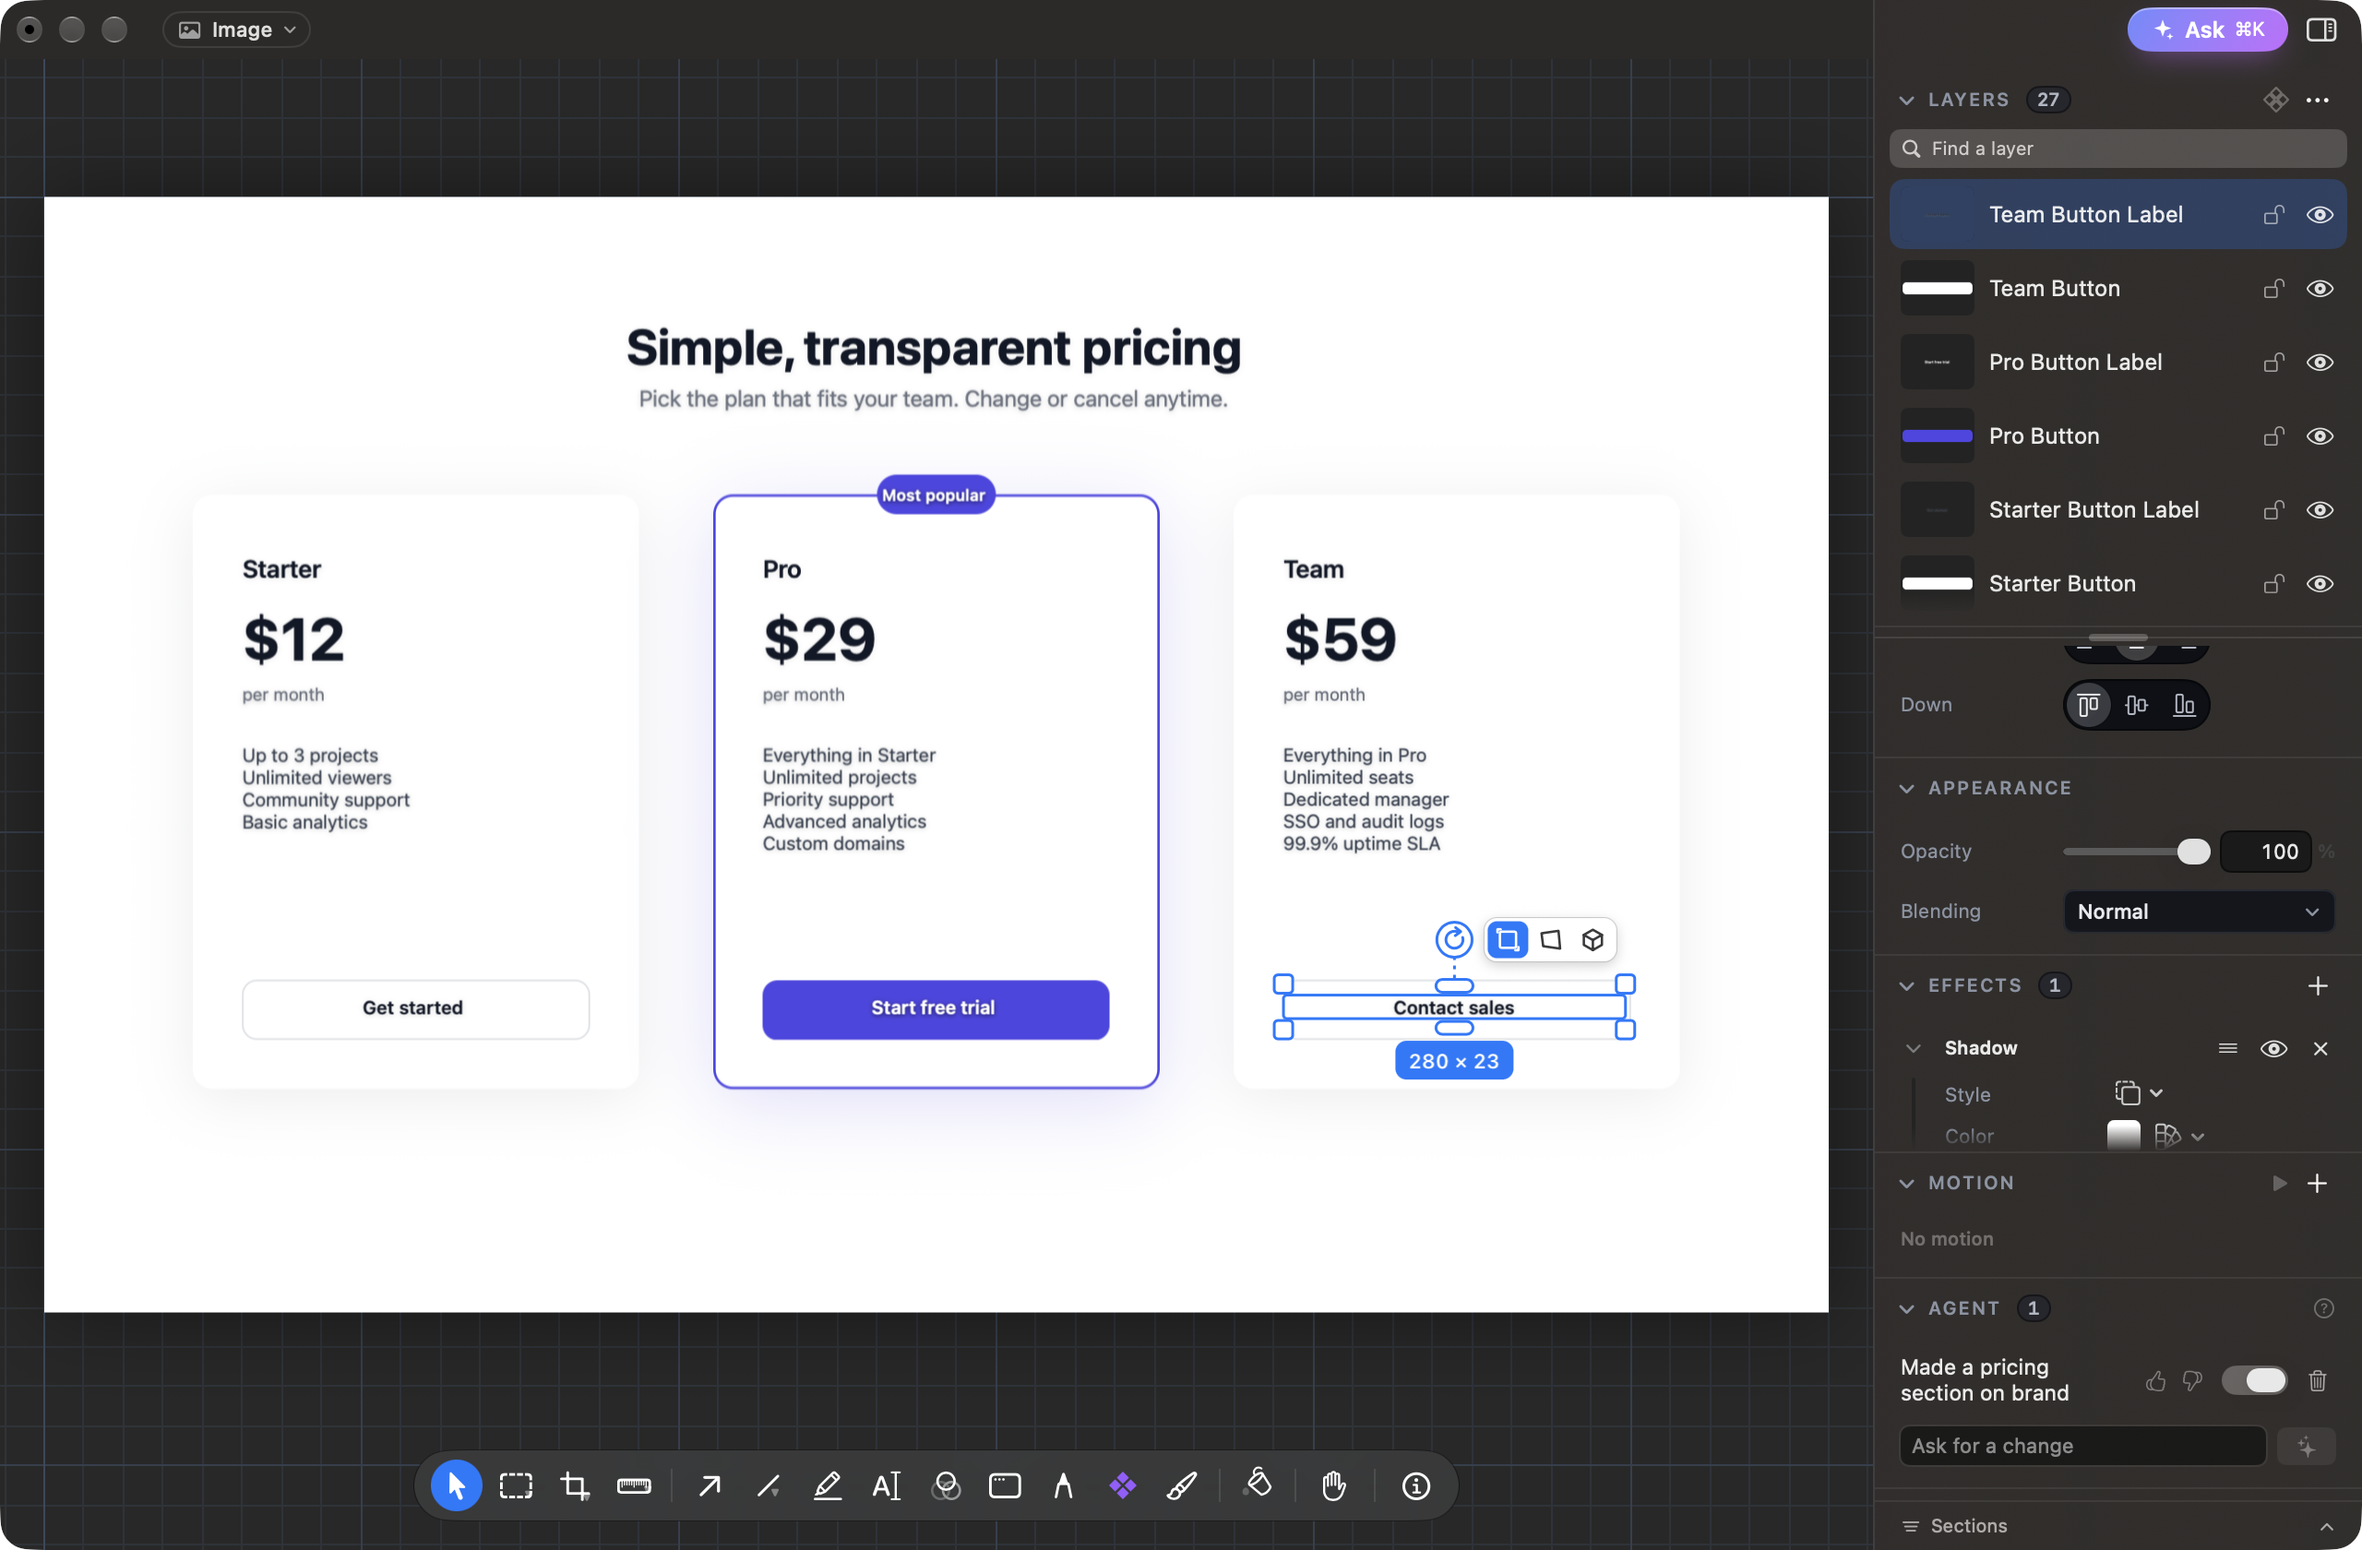
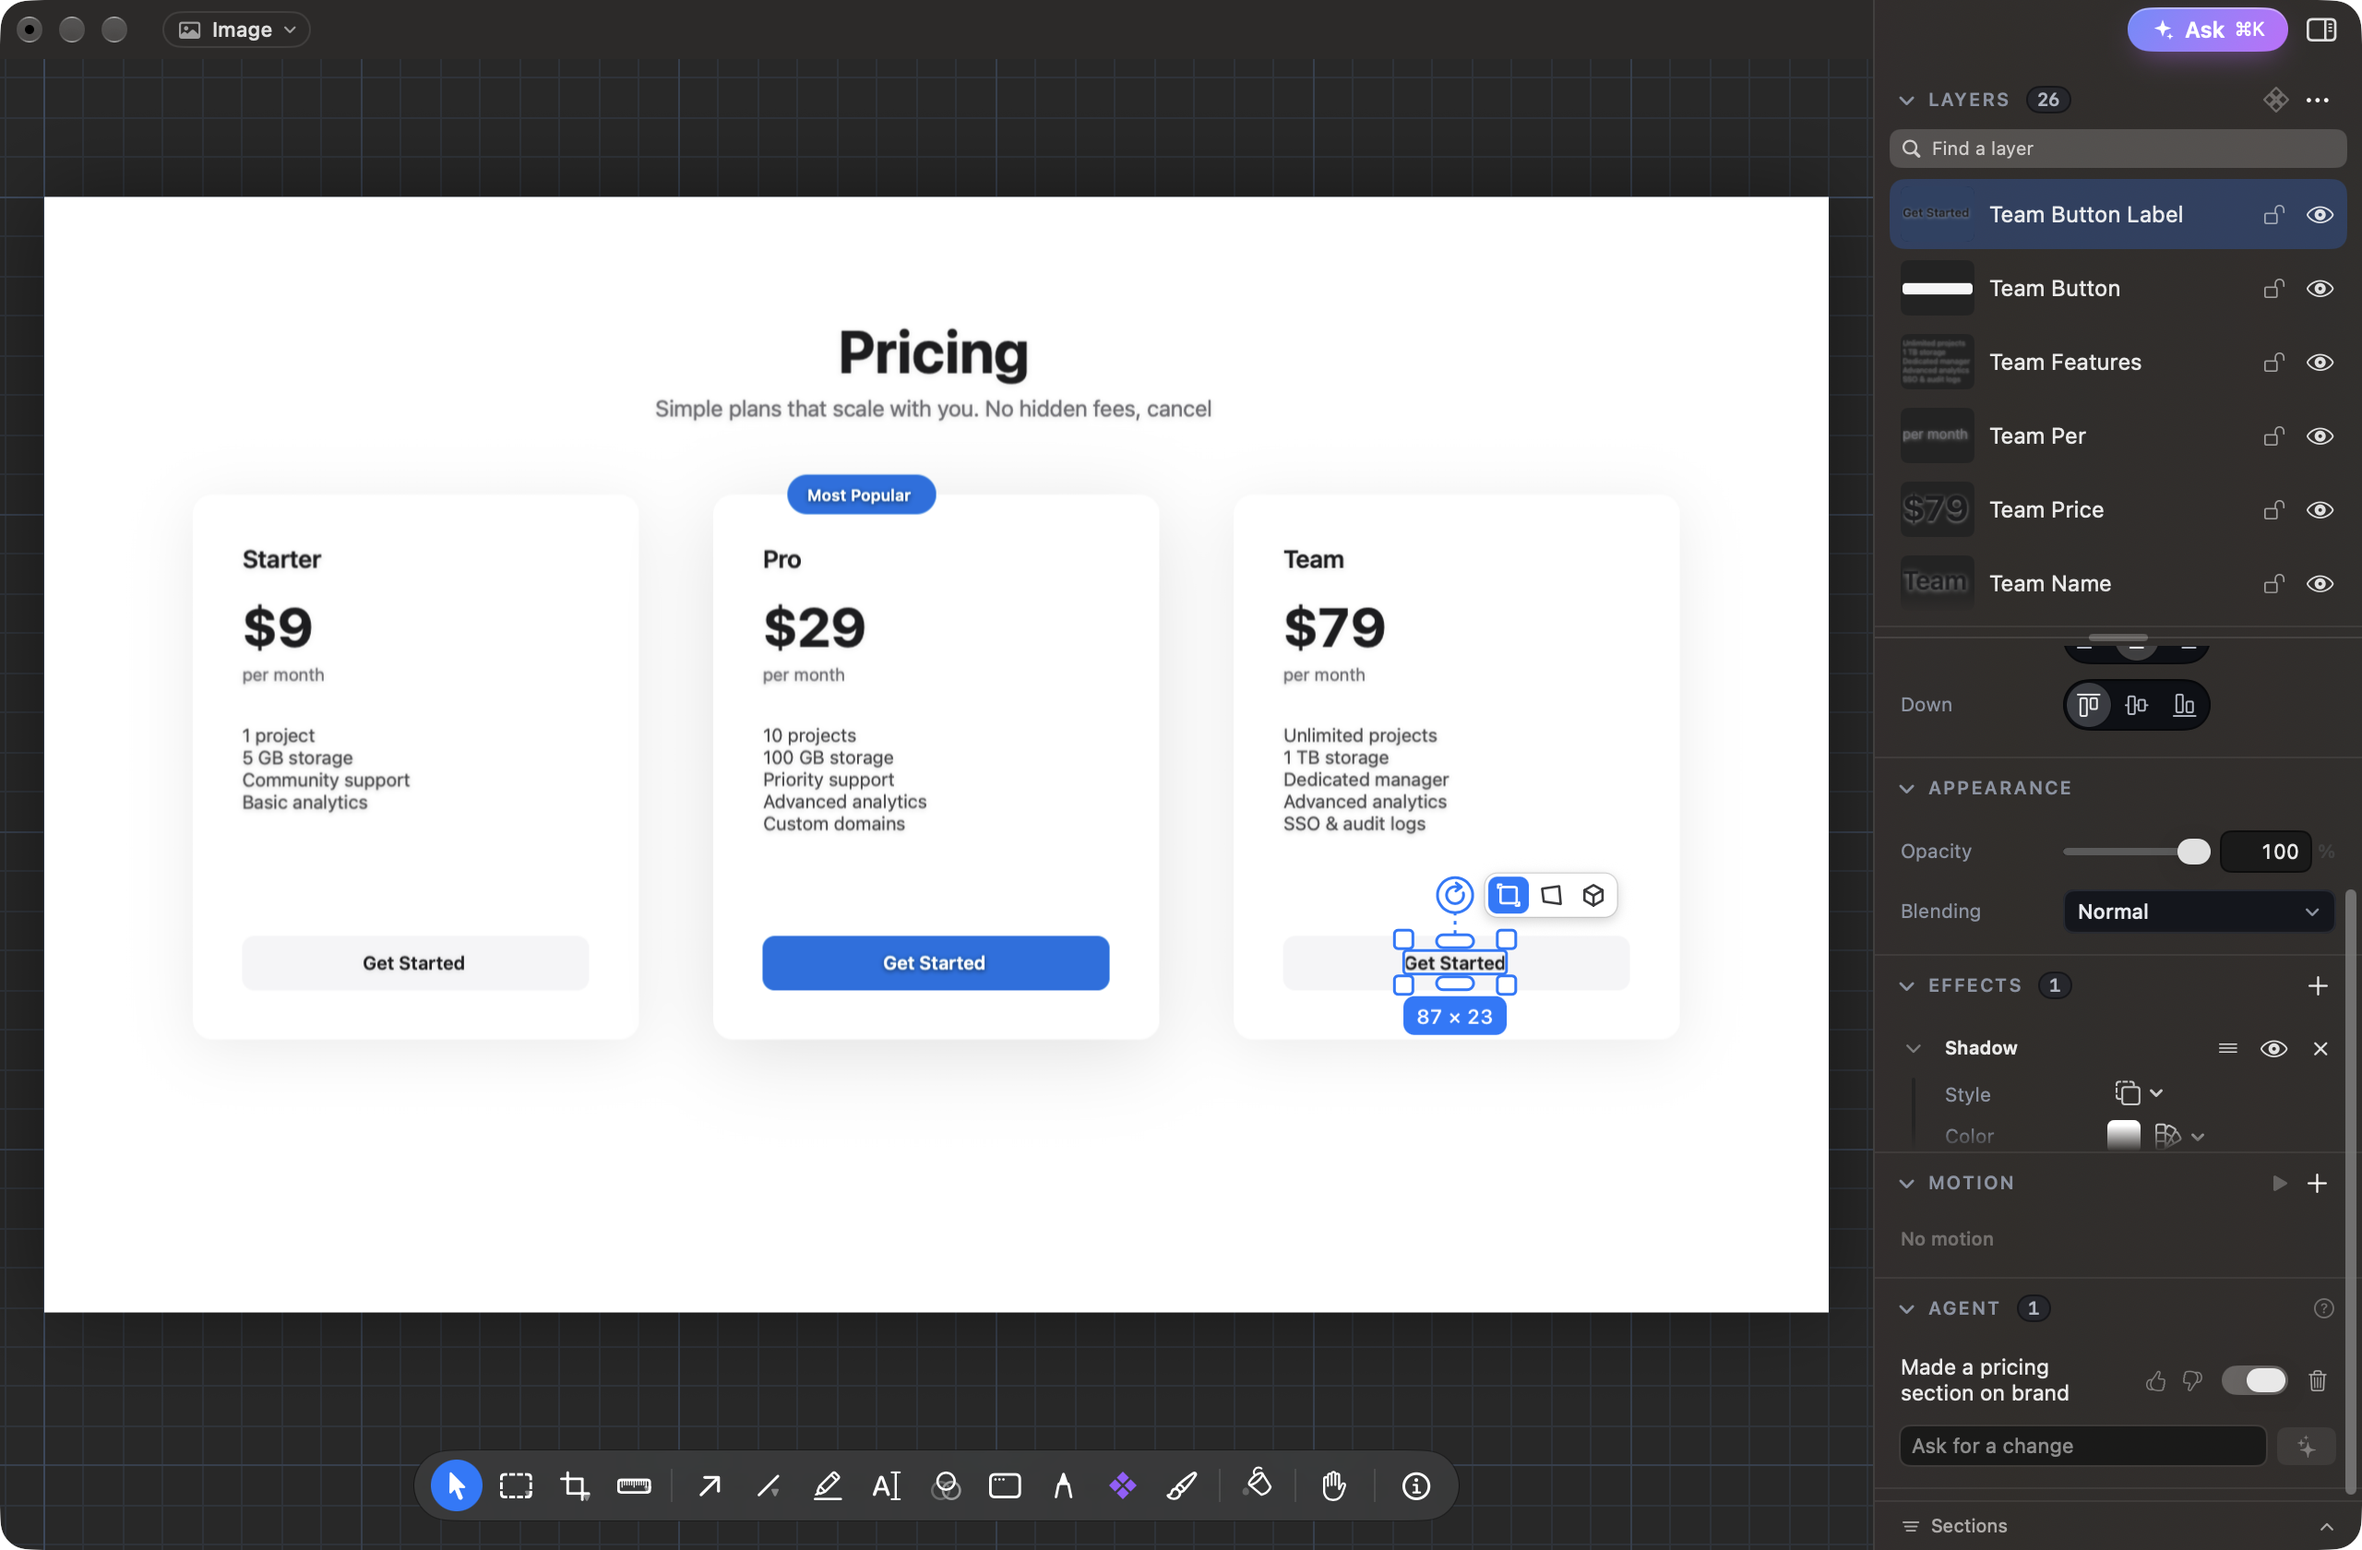
queue: audit and progress for Ask's layout look

diff --git a/docs/progress/log.md b/docs/progress/log.md
@@ -22413,3 +22413,11 @@ the ghost, and pinching in seemed to stop short.
 - `CaptureShortcutOwner` (PhotonzCore, tested): the probe never answers; a running build without the `PhotonzCaptureShortcutsStepAside` Info.plist mark (anything before this) keeps the shortcuts and everyone else stands down; otherwise the copy opened last answers. `CaptureCenter` asks at launch and whenever a Photonz opens or quits (`CaptureShortcutClaim`, `HotkeyCenter.unregisterAll`).
 - One app answering, read from a second process as a web page, Preview, Finder and Slack read it: 80/80 at once, 81/81 at 1 s, 80/80 at 10 s, 20/20 under full load (`run.sh paste`, new walk action `captureLandsAndStays`). Nov 1's editor Copy race still 120/120.
 - Open: the user's installed 0.21.0 cannot step aside, so until it is updated the new Dev leaves the shortcuts to it. A live ⇧⌘3 after the next Dev refresh is the first real-shortcut check.
+
+## 2026-11-03 (later): Ask looks over the layout it made
+
+- `AskLayoutCheck` (PhotonzCore) reads the finished document inside the run's undo step: recolours unreadable words, centres a lone centred line on its box or the row below, brings words back onto their box or the canvas, parts stacked words, and says what it could not mend. `ImageStore.flatColourHex` gives it the colour of a blank page, which is a picture. add_text with no colour reads what is behind it.
+- Found on the way: a price written `$12` printed as step 12's layer id (fixed, `AskStep.wordKeys`). The eval now presses Ask and Send, because the probe could not take the front on an idle Mac.
+- Filed: `text-keeps-every-word-at-every-zoom`, shared renderer, the last word of a tight line is lost at 67% zoom.
+- Held-out at b4b44ca5: total 55.8, drawing 56.9, layout 52.9, redline 33.2, video 67.4. Three later fixes to the check are not in that run.
+- Open: the task stays pending. Its held-out item needs a run on the final code and its cause is still not established. Why the total fell from 57.2 is unknown.
